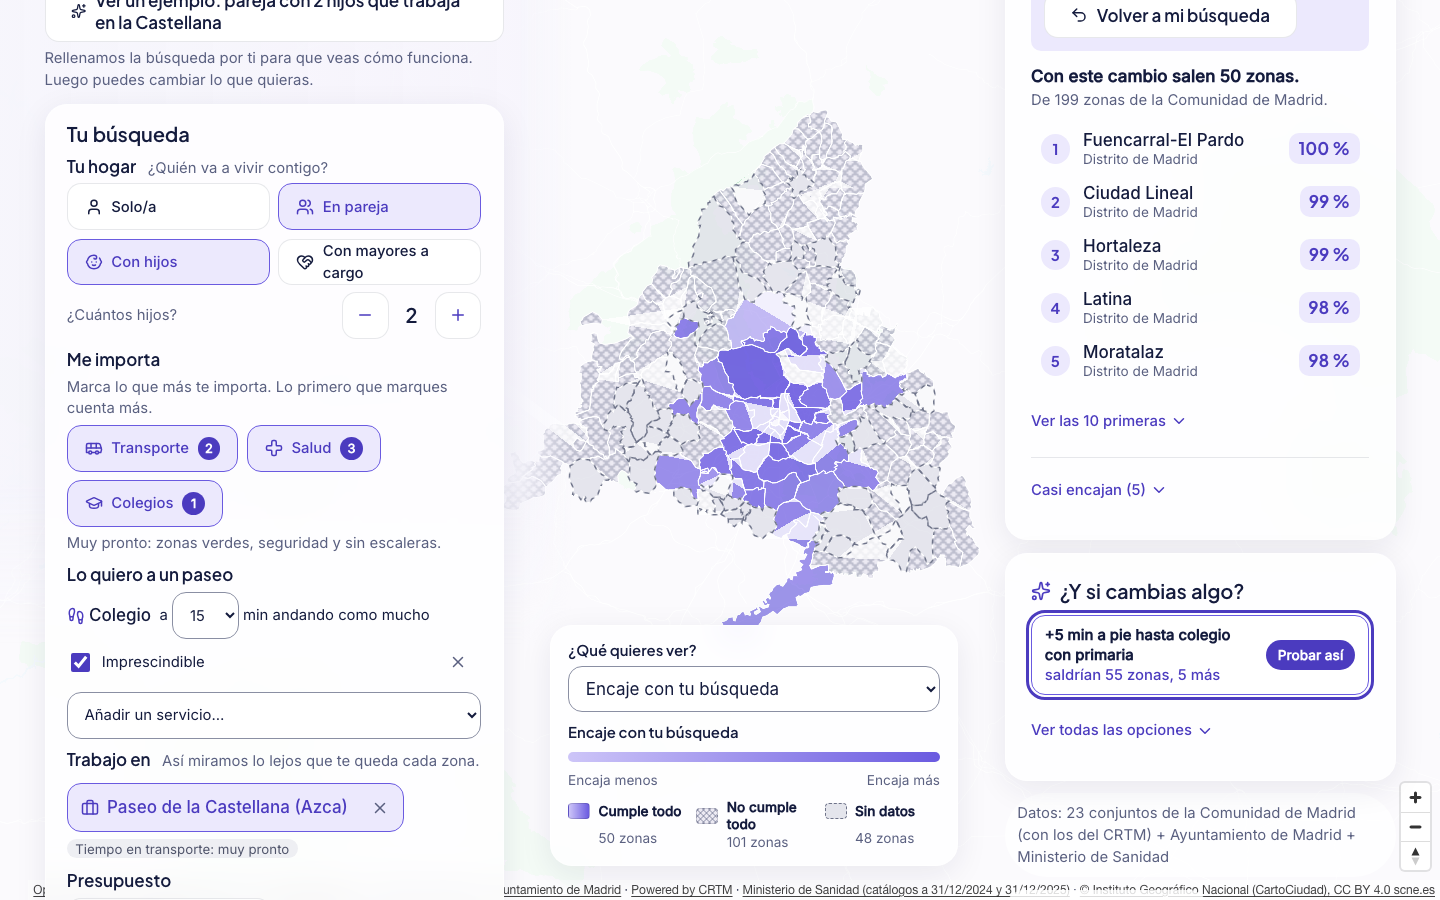
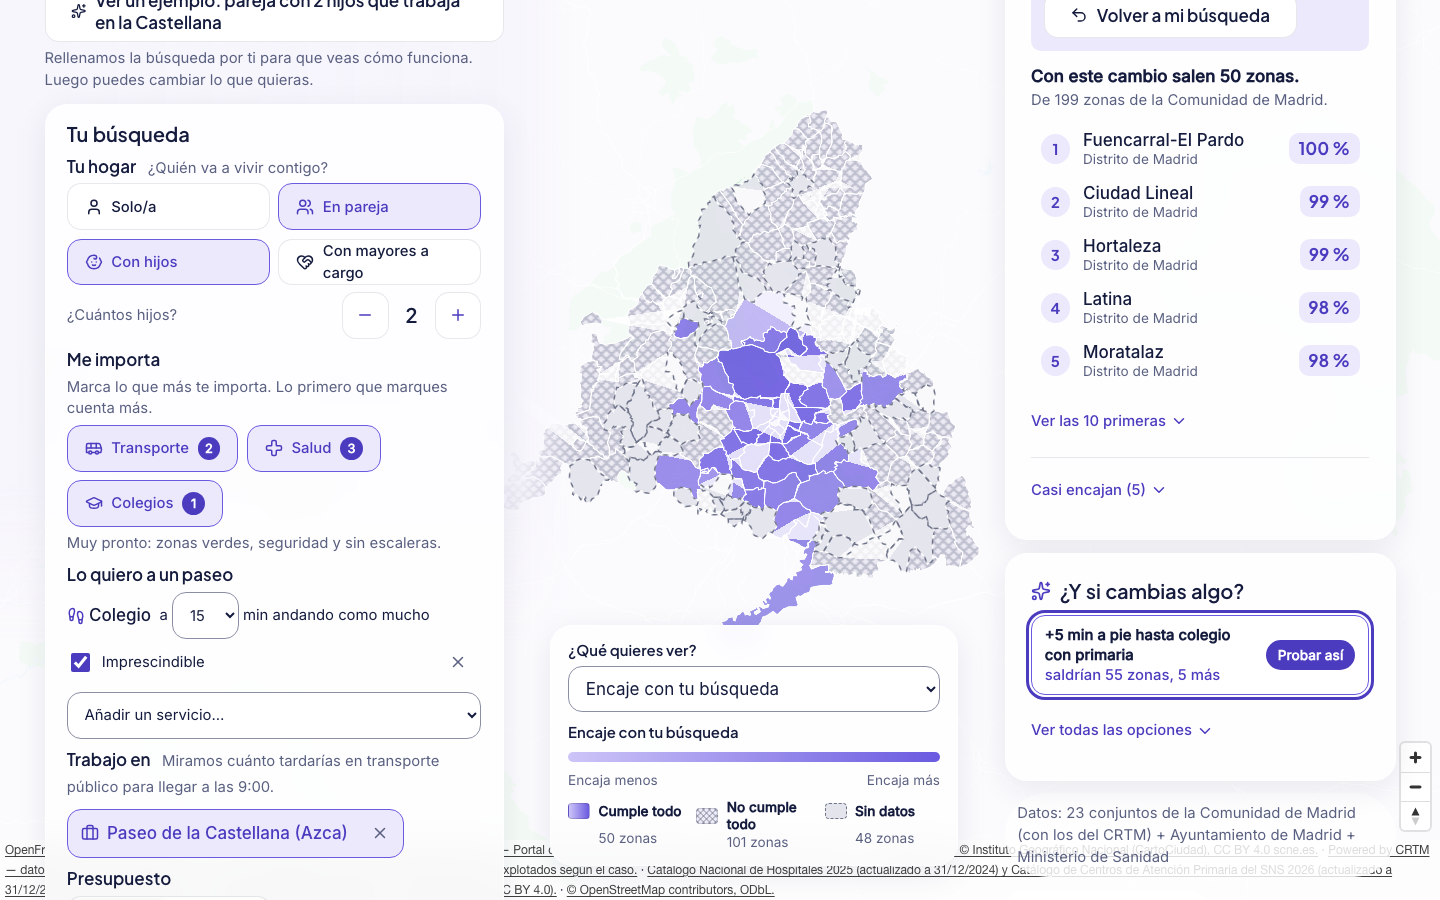
PUB-001 TEXTOS Fase 6: «Trabajo en» con el transporte público de fit-0.2 y capturas C1 y C2 del deck con Fuencarral-El Pardo
- trabajo.ayuda pasa a «Miramos cuánto tardarías en transporte público para llegar a las 9:00.»
  (D, 0186ae9). Se quita «Tiempo en transporte: muy pronto» y su estilo, que no usa nadie más.
- check-qa capturas-deck añade C1 y C2 (deck_c1_busqueda_1440.png y deck_c2_tarjeta_zona_1440.png),
  contrastadas con la respuesta de /search que recibe la página:
  - fit-0.2;
  - Fuencarral-El Pardo, 100 %;
  - «29 min en transporte público hasta Paseo de la Castellana (Azca), llegando a las 9:00»;
  - todos los hechos de la tarjeta.
  C3 y C4 se recapturan con el mismo HEAD (50 zonas, 17 más).
- check-search on y capturas-deck sin fallos, con la consola vacía.

Changed region(s): [[0.3438, 0.84, 1.0, 1.0], [0.0, 0.84, 0.3125, 1.0]]

diff --git a/apps/web/src/components/search/WorkField.tsx b/apps/web/src/components/search/WorkField.tsx
@@ -15,13 +15,13 @@ import { useScenario } from "./ScenarioProvider";
 // of streets: there is no street search without an external geocoder.
 const TEXT = {
   title: "Trabajo en",
-  help: "Así miramos lo lejos que te queda cada zona.",
+  // trabajo.ayuda with fit-0.2 (CORE-009, D-220): the commute is measured in public transport minutes
+  help: "Miramos cuánto tardarías en transporte público para llegar a las 9:00.",
   placeholder: "Escribe una estación, un distrito o un municipio",
   noMatch: "No encontramos ese lugar. Prueba con una estación o con el nombre del municipio.",
   found: (n: number) => (n === 1 ? "1 lugar encontrado. Usa las flechas para elegirlo." : `${n} lugares encontrados. Usa las flechas para elegir uno.`),
   remove: "Quitar este lugar",
-  // trabajo.max_min is not shown until CORE-009 (the search sends the work place without a limit)
-  transitSoon: "Tiempo en transporte: muy pronto",
+  // trabajo.max_min is not shown: the search sends the work place without a limit (max_minutes: null)
 };
 
 type Stations = WorkPlace[] | "loading" | "failed" | null;
@@ -172,9 +172,6 @@ export default function WorkField() {
       {/* Always there, so screen readers hear how many places match while typing */}
       <p role="status" className="visually-hidden">
         {status}
-      </p>
-      <p className={styles.help}>
-        <span className={styles.soonTag}>{TEXT.transitSoon}</span>
       </p>
     </div>
   );

diff --git a/apps/web/src/components/search/SearchCard.module.css b/apps/web/src/components/search/SearchCard.module.css
@@ -366,14 +366,6 @@
   color: var(--violet-strong);
 }
 
-.soonTag {
-  padding: 0.1rem 0.5rem;
-  border-radius: var(--radius-pill);
-  background: var(--sin-datos-bg);
-  color: var(--sin-datos-ink);
-  font-size: 0.78rem;
-}
-
 /* presupuesto.compra.sin_datos: «Sin datos» told by text, with the dashed SIN DATOS border */
 .noDataNote {
   padding: var(--space-2) var(--space-3);
